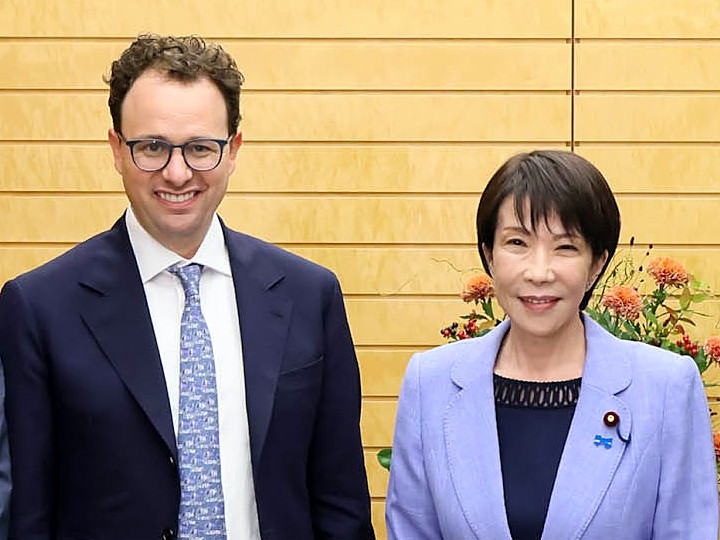
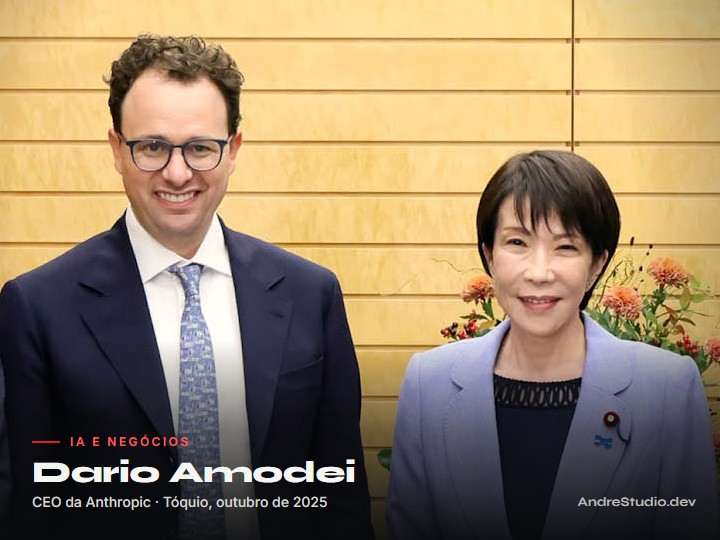
blog: foto do post com tratamento da marca (cor, vinheta e faixa com nome e cargo)
Rostos sem alteracao; legenda e ASSETS.md indicam que a foto foi editada (CC BY 4.0).

Changed region(s): [[0.0, 0.0, 1.0, 1.0], [0.0, 0.0, 0.0611, 0.0889], [0.2444, 0.4741, 0.275, 0.5037]]

diff --git a/blog/ia-industria-de-trilhao-o-que-muda-no-seu-negocio/index.html b/blog/ia-industria-de-trilhao-o-que-muda-no-seu-negocio/index.html
@@ -6,7 +6,7 @@
 </head><body>
   <a class="skip-link" href="#conteudo">Pular para o conteúdo</a><header class="site-header"><div class="container header-inner"><a class="brand" href="/"><img src="/assets/optimized/logo-96.png" width="34" height="34" alt=""><span>AndreStudio.dev</span></a><button class="nav-toggle" type="button" aria-controls="primary-nav" aria-expanded="false" aria-label="Abrir menu">☰</button><button class="theme-toggle" type="button" id="theme-toggle" aria-label="Ativar tema claro"><span class="theme-toggle-label">Claro</span><span class="theme-toggle-track"><span class="theme-toggle-thumb"></span></span></button><nav class="site-nav" id="primary-nav" aria-label="Navegação principal"><ul><li><a href="/solucoes/servicos/">Soluções</a></li><li><a href="/ferramentas/">Ferramentas</a></li><li><a href="/servicos/#projetos-principais">Projetos</a></li><li><a href="/blog/" aria-current="page">Conteúdo</a></li><li><a href="/sobre/">Sobre</a></li><li><a href="/contato/">Contato</a></li></ul></nav><a class="btn btn-primary btn-small header-cta" href="https://raiox.andrestudio.dev.br/" target="_blank" rel="noopener noreferrer">Raio-X grátis</a></div></header>
   <main id="conteudo"><article><header class="page-hero"><div class="container narrow"><nav class="breadcrumbs" aria-label="Navegação estrutural"><a href="/">Início</a> / <a href="/blog/">Conteúdo</a> / IA, indústria de trilhão</nav><div class="project-card-top"><span class="label">IA e negócios</span><span class="label">5 min de leitura</span></div><h1>A IA virou indústria de trilhão: o que muda (e o que não muda) para o seu negócio</h1><p class="lede">Numa mesma semana, a dona do Claude estreou na bolsa e a NVIDIA bateu recorde. Para o dono de negócio, a pergunta não é se a ação vai subir. É o que fazer com a IA que já está na mão dele.</p><div class="author"><img src="/assets/optimized/andre-rodrigues.jpg" width="54" height="54" alt="Retrato de André Rodrigues"><p><strong>André Rodrigues</strong><br>AndreStudio.dev<br><time datetime="2026-11-21">Publicado em 21 de novembro de 2026</time></p></div></div></header>
-    <section class="section-tight section-rule"><div class="container article-layout"><div class="article-body"><figure style="margin:0 0 2rem"><picture><source srcset="/assets/optimized/dario-amodei-toquio-2025.webp" type="image/webp"><img src="/assets/optimized/dario-amodei-toquio-2025.jpg" width="720" height="540" alt="Dario Amodei, CEO da Anthropic, com a primeira-ministra do Japão, Sanae Takaichi, em Tóquio, em outubro de 2025" style="width:100%;height:auto;border-radius:var(--radius)" fetchpriority="high"></picture><figcaption style="font-size:.8rem;color:var(--muted);margin-top:.6rem">Dario Amodei, CEO da Anthropic, e a primeira-ministra do Japão, Sanae Takaichi, em Tóquio (29/10/2025). Foto: <a href="https://www.kantei.go.jp/jp/104/actions/202510/29hyoukei.html" target="_blank" rel="noopener">Gabinete do Primeiro-Ministro do Japão (内閣官房)</a>, <a href="https://creativecommons.org/licenses/by/4.0/deed.pt-br" target="_blank" rel="noopener">CC BY 4.0</a>, recortada.</figcaption></figure>
+    <section class="section-tight section-rule"><div class="container article-layout"><div class="article-body"><figure style="margin:0 0 2rem"><picture><source srcset="/assets/optimized/dario-amodei-toquio-2025.webp" type="image/webp"><img src="/assets/optimized/dario-amodei-toquio-2025.jpg" width="720" height="540" alt="Dario Amodei, CEO da Anthropic, com a primeira-ministra do Japão, Sanae Takaichi, em Tóquio, em outubro de 2025" style="width:100%;height:auto;border-radius:var(--radius)" fetchpriority="high"></picture><figcaption style="font-size:.8rem;color:var(--muted);margin-top:.6rem">Dario Amodei, CEO da Anthropic, e a primeira-ministra do Japão, Sanae Takaichi, em Tóquio (29/10/2025). Foto: <a href="https://www.kantei.go.jp/jp/104/actions/202510/29hyoukei.html" target="_blank" rel="noopener">Gabinete do Primeiro-Ministro do Japão (内閣官房)</a>, <a href="https://creativecommons.org/licenses/by/4.0/deed.pt-br" target="_blank" rel="noopener">CC BY 4.0</a>, recortada e editada (cores, vinheta e texto).</figcaption></figure>
 <p class="nota-transparencia" style="border-left:3px solid var(--red);padding:.8rem 1rem;background:var(--surface);border-radius:0 var(--radius) var(--radius) 0;font-size:.92rem"><strong>Transparência:</strong> este texto foi escrito com a ajuda do Claude, a IA da própria Anthropic. Por isso todos os números vêm de fontes externas, listadas no fim. E não é recomendação de investimento.</p>
       <h2 id="o-que-aconteceu">O que aconteceu</h2><ul><li><strong>Anthropic na bolsa.</strong> A empresa que faz o Claude estreou na Nasdaq em 19 de novembro de 2026, com o código ANT. Vendeu 980 milhões de ações a US$ 83 cada, levantou US$ 81,3 bilhões e terminou o primeiro dia a US$ 97,17, alta de 17%. No fechamento, valia cerca de US$ 1,8 trilhão, segundo a CNBC.</li><li><strong>NVIDIA, dois dias antes.</strong> A fabricante dos chips que rodam quase toda a IA do mundo faturou US$ 115,8 bilhões no trimestre encerrado em 25 de outubro, 103% a mais que um ano antes. Só a parte de data centers somou US$ 107,6 bilhões. A empresa também está sem o fundador no comando: Jensen Huang deixou o cargo de CEO, e a diretora financeira, Colette Kress, assumiu de forma interina.</li><li><strong>No Brasil:</strong> não há previsão de BDR das ações da Anthropic por aqui, segundo reportagem publicada antes da estreia.</li></ul>
       <h2 id="o-que-significa">O que isso significa</h2><p>A IA deixou de ser experimento e virou infraestrutura, como a energia ou a internet. Dinheiro desse tamanho vai para data centers, chips e modelos cada vez maiores. Quem constrói essa estrutura são poucas empresas gigantes. Quem usa somos todos nós, na ponta: o WhatsApp que responde, a planilha que se organiza, o texto que sai em minutos.</p><p>Para o pequeno negócio, a consequência mais concreta é que a IA vai aparecer <strong>dentro das ferramentas que você já usa</strong>: o próprio WhatsApp Business já tem uma IA para responder clientes. Você não precisa escolher qual empresa vai vencer a corrida. Precisa saber o que fazer com o que já está disponível.</p>

diff --git a/ASSETS.md b/ASSETS.md
@@ -32,4 +32,4 @@ Não foram inventadas datas, ferramentas ou créditos de produção. Os arquivos
 ## Critério editorial
 
 Os assets são apresentados como parte do portfólio e dos estudos autorais do AndreStudio.dev. A seleção de imagens deve continuar coerente com desenvolvimento Web, produtos digitais, IA aplicada, automação e criação digital, sem transformar estudos visuais em cases de clientes ou resultados comerciais.
-| `assets/optimized/dario-amodei-toquio-2025.webp` e `.jpg` | Foto do post sobre IA, indústria de trilhão | Gabinete do Primeiro-Ministro do Japão (内閣官房), kantei.go.jp, 29/10/2025 | Public Data License 1.0 / CC BY 4.0, recortada e ajustada (contraste e nitidez) | Crédito exibido na legenda do post; uso editorial, nunca em anúncio |
+| `assets/optimized/dario-amodei-toquio-2025.webp` e `.jpg` | Foto do post sobre IA, indústria de trilhão | Gabinete do Primeiro-Ministro do Japão (内閣官房), kantei.go.jp, 29/10/2025 | Public Data License 1.0 / CC BY 4.0, recortada e editada (cores, vinheta e faixa com nome e cargo; rostos sem alteração) | Crédito exibido na legenda do post; uso editorial, nunca em anúncio |
